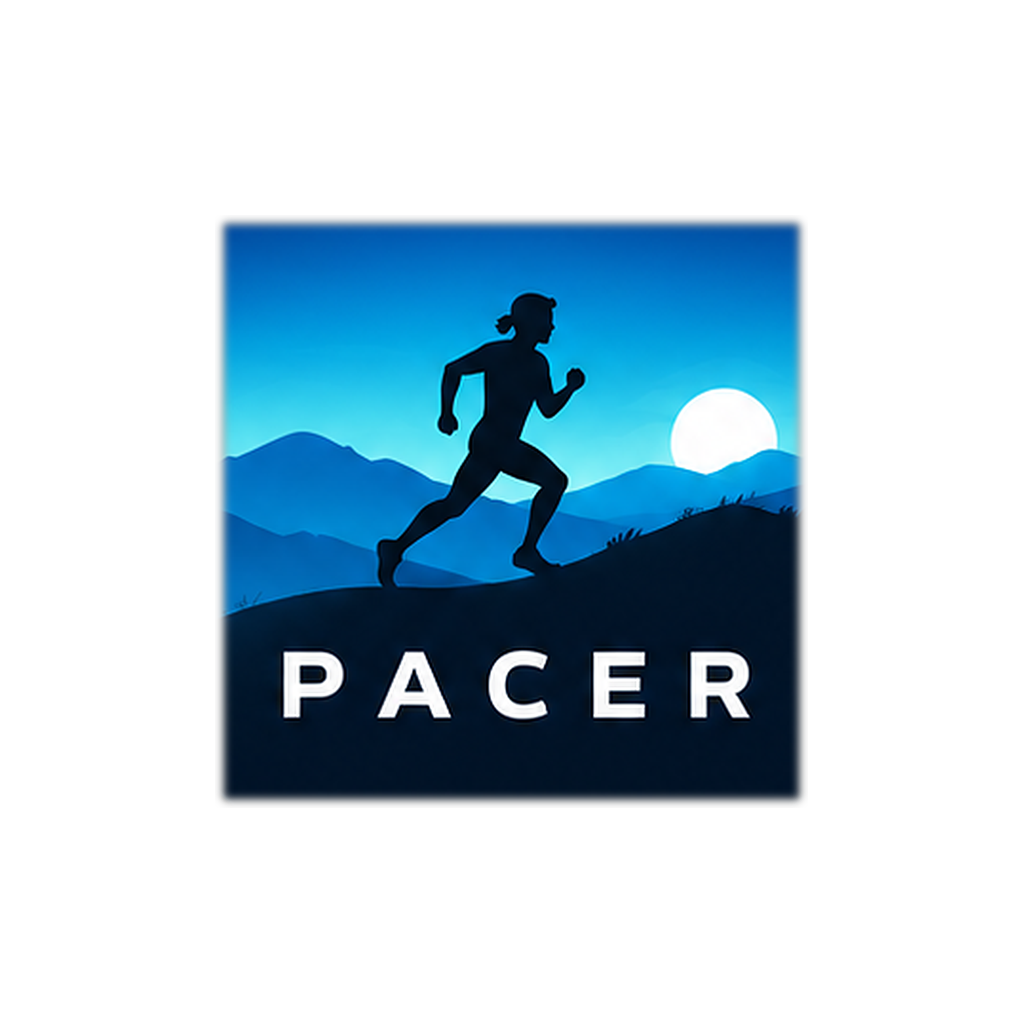
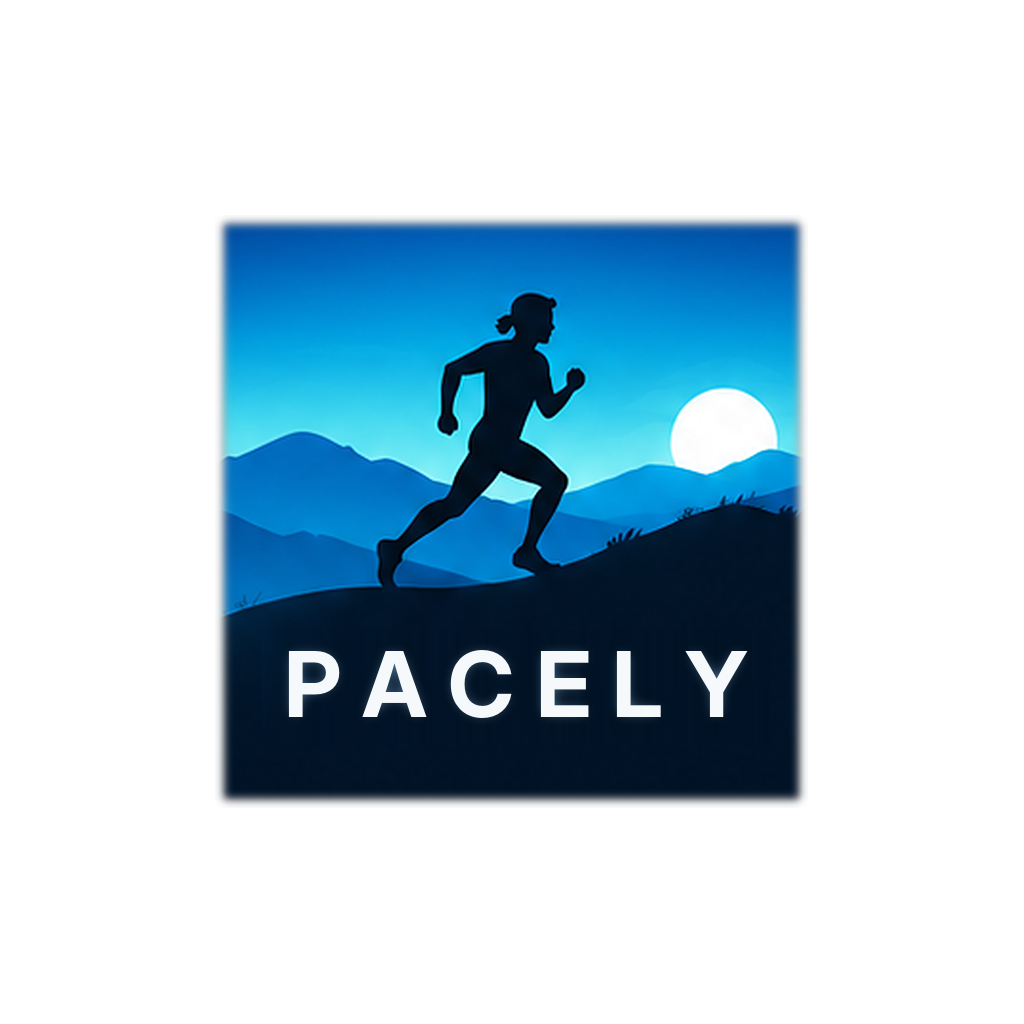
Rename the app to Pacely
All visible text, the share card, invite links and the icon/splash lettering now
say Pacely. Internal identifiers (bundle ID, EAS slug, storage keys, Firebase
project) are unchanged so existing data and builds keep working.

Claude-Session: https://claude.ai/code/session_01KvumYH4tL7PjN1ULqBQjTr

Changed region(s): [[0.25, 0.625, 0.75, 0.7188]]

diff --git a/src/planGuides.ts b/src/planGuides.ts
@@ -35,7 +35,7 @@ export const GUIDES: Record<string, PlanGuide> = {
     ],
     sessionTypes: [
       { name: 'Warm-up walk (5 min)', text: 'A brisk walk before every session warms up your muscles and gets your heart rate up gently.' },
-      { name: 'Run/walk', text: 'Run for a set time, then walk to recover. Pacer tells you when to switch. Run slowly enough that you could still talk.' },
+      { name: 'Run/walk', text: 'Run for a set time, then walk to recover. Pacely tells you when to switch. Run slowly enough that you could still talk.' },
       { name: 'Continuous run', text: 'One steady run with no walking. Pick a pace you could keep going at, even if it feels slow.' },
       { name: 'Cool-down walk (5 min)', text: 'Lets your heart rate come down slowly and helps your legs feel less stiff the next day.' },
     ],
@@ -91,9 +91,9 @@ export const GUIDES: Record<string, PlanGuide> = {
       { weeks: '6', title: 'Time trial', text: 'Fewer reps so you\'re fresh, then a 5 km time trial aiming for under 30 minutes (5:55 per km).' },
     ],
     sessionTypes: [
-      { name: '400 m reps', text: 'Run 400 m (one lap of a track) at 5:30 per km, a bit faster than your goal pace, then rest for 90 seconds. Pacer tells you if you\'re on pace. Running faster than goal pace makes goal pace feel easier.' },
+      { name: '400 m reps', text: 'Run 400 m (one lap of a track) at 5:30 per km, a bit faster than your goal pace, then rest for 90 seconds. Pacely tells you if you\'re on pace. Running faster than goal pace makes goal pace feel easier.' },
       { name: 'Easy run', text: 'A relaxed run to recover between the harder sessions. Don\'t worry about pace at all.' },
-      { name: 'Steady run', text: 'A longer run at 6:00 per km, your target race pace. Pacer warns you if you drift too slow, so you learn what the pace feels like.' },
+      { name: 'Steady run', text: 'A longer run at 6:00 per km, your target race pace. Pacely warns you if you drift too slow, so you learn what the pace feels like.' },
     ],
     weekNotes: [
       '5 reps of 400 m and a 4 km steady run. Find your rhythm at 6:00 per km.',
@@ -148,7 +148,7 @@ export const GUIDES: Record<string, PlanGuide> = {
       { weeks: '5–6', title: 'Running again', text: 'Longer runs with one short walk, then 25 minutes of easy running. Then you can go back to your normal training or another plan.' },
     ],
     sessionTypes: [
-      { name: 'Run/walk', text: 'Run gently for a set time, then walk for a minute. Pacer tells you when to switch. Every run should feel easy.' },
+      { name: 'Run/walk', text: 'Run gently for a set time, then walk for a minute. Pacely tells you when to switch. Every run should feel easy.' },
       { name: 'Warm-up and cool-down walks', text: '5 minutes of walking at each end. Don\'t skip them: they matter more when you\'re coming back.' },
     ],
     weekNotes: [
@@ -172,9 +172,9 @@ export const GUIDES: Record<string, PlanGuide> = {
       { weeks: '6', title: 'Time trial', text: 'Fewer reps to keep your legs fresh, then 5 km aiming for under 25 minutes.' },
     ],
     sessionTypes: [
-      { name: '400 m reps', text: 'Run 400 m at 4:40 per km, a bit faster than race pace, then rest 90 seconds. Pacer tells you if you\'re on pace.' },
+      { name: '400 m reps', text: 'Run 400 m at 4:40 per km, a bit faster than race pace, then rest 90 seconds. Pacely tells you if you\'re on pace.' },
       { name: 'Easy run', text: 'Relaxed running to recover. No pace to worry about.' },
-      { name: 'Steady run', text: 'A longer run at 5:00 per km, your goal pace. Pacer warns you if you drift too slow.' },
+      { name: 'Steady run', text: 'A longer run at 5:00 per km, your goal pace. Pacely warns you if you drift too slow.' },
     ],
     weekNotes: [
       '5 reps and a 4 km steady run. Find your rhythm at 5:00 per km.',
@@ -197,7 +197,7 @@ export const GUIDES: Record<string, PlanGuide> = {
       { weeks: '7–8', title: 'Taper and race', text: 'Less volume so you\'re fresh, then race 10 km.' },
     ],
     sessionTypes: [
-      { name: '800 m reps', text: 'Run 800 m hard (faster than 10K pace), jog 90 seconds, repeat. Pacer compares each rep with how you started it.' },
+      { name: '800 m reps', text: 'Run 800 m hard (faster than 10K pace), jog 90 seconds, repeat. Pacely compares each rep with how you started it.' },
       { name: 'Tempo run', text: 'Comfortably hard: you could say a few words, but not chat. It lifts the pace you can hold for 10 km.' },
       { name: 'Easy run', text: 'Relaxed recovery running.' },
       { name: 'Long run', text: 'Slow and steady, building endurance so the last 2 km of the race feel strong.' },

diff --git a/app/custom-plan.tsx b/app/custom-plan.tsx
@@ -20,7 +20,7 @@ function parseClock(text: string): number | null {
   return s > 0 ? s : null;
 }
 
-/** Pacer Plus: build a personal plan for a race from your fitness, goal and running days. */
+/** Pacely Plus: build a personal plan for a race from your fitness, goal and running days. */
 export default function CustomPlanScreen() {
   const t = useTheme();
   const router = useRouter();
@@ -50,7 +50,7 @@ export default function CustomPlanScreen() {
   if (!plus) {
     return (
       <Screen inset={false}>
-        <PlusLock title="Personal adaptive plans" text="Tell Pacer your race and goal. It builds a plan around your fitness and running days, then adjusts as you go." onPress={() => router.push('/plus')} />
+        <PlusLock title="Personal adaptive plans" text="Tell Pacely your race and goal. It builds a plan around your fitness and running days, then adjusts as you go." onPress={() => router.push('/plus')} />
       </Screen>
     );
   }
@@ -88,7 +88,7 @@ export default function CustomPlanScreen() {
   return (
     <Screen inset={false}>
       <Text style={{ color: t.muted, marginBottom: 12, lineHeight: 20 }}>
-        Tell Pacer about your race. Your plan is built around your fitness and the days you can run, and your paces adjust as you tell Pacer how sessions felt.
+        Tell Pacely about your race. Your plan is built around your fitness and the days you can run, and your paces adjust as you tell Pacely how sessions felt.
       </Text>
       <Card>
         <SectionLabel>Race distance</SectionLabel>
@@ -97,7 +97,7 @@ export default function CustomPlanScreen() {
         </View>
         <Field label="Race date (day/month/year)" placeholder="12/04/2027" value={date} onChangeText={(v) => { setDate(v); setBuilt(null); }} keyboardType="numbers-and-punctuation" />
         <Field label="Your 5K time now" hint={current ? 'Worked out from your recent runs. Change it if you know better.' : 'Leave empty if you\'re not sure.'} placeholder="28:30" value={current} onChangeText={(v) => { setCurrent(v); setBuilt(null); }} keyboardType="numbers-and-punctuation" />
-        <Field label="Goal time (optional)" hint="Leave empty and Pacer picks a realistic target." placeholder={km > 21.2 ? '4:00:00' : km > 10 ? '1:55:00' : km > 5 ? '55:00' : '25:00'} value={goal} onChangeText={(v) => { setGoal(v); setBuilt(null); }} keyboardType="numbers-and-punctuation" />
+        <Field label="Goal time (optional)" hint="Leave empty and Pacely picks a realistic target." placeholder={km > 21.2 ? '4:00:00' : km > 10 ? '1:55:00' : km > 5 ? '55:00' : '25:00'} value={goal} onChangeText={(v) => { setGoal(v); setBuilt(null); }} keyboardType="numbers-and-punctuation" />
         <SectionLabel>Runs a week</SectionLabel>
         <View style={{ flexDirection: 'row', gap: 8, marginBottom: 12 }}>
           {[3, 4].map((n) => <Chip key={n} small label={`${n} runs`} active={perWeek === n} onPress={() => { setPerWeek(n); setBuilt(null); }} />)}

diff --git a/app/plus.tsx b/app/plus.tsx
@@ -9,7 +9,7 @@ import { loadSettings, saveSettings } from '../src/storage';
 import { PLUS_BENEFITS, PLUS_PRICE, setPlusFlag } from '../src/plus';
 import { Settings } from '../src/types';
 
-/** What Pacer Plus adds, and (until payments are set up) a switch to try it. */
+/** What Pacely Plus adds, and (until payments are set up) a switch to try it. */
 export default function PlusScreen() {
   const t = useTheme();
   const [s, setS] = useState<Settings | null>(null);
@@ -33,10 +33,10 @@ export default function PlusScreen() {
       <Card style={{ backgroundColor: t.accent, borderWidth: 0 }}>
         <View style={{ flexDirection: 'row', alignItems: 'center', gap: 8 }}>
           <Ionicons name="star" size={22} color={t.onAccent} />
-          <Text style={{ color: t.onAccent, fontSize: 24, fontWeight: '900' }}>Pacer Plus</Text>
+          <Text style={{ color: t.onAccent, fontSize: 24, fontWeight: '900' }}>Pacely Plus</Text>
         </View>
         <Text style={{ color: t.onAccent, marginTop: 6, lineHeight: 21, fontSize: 15 }}>
-          Everything in Pacer stays free. Plus adds extra coaching, stats and plans for runners who want more.
+          Everything in Pacely stays free. Plus adds extra coaching, stats and plans for runners who want more.
         </Text>
         <Text style={{ color: t.onAccent, marginTop: 10, fontWeight: '800' }}>
           {PLUS_PRICE.month} a month or {PLUS_PRICE.year} a year · {PLUS_PRICE.trialDays}-day free trial
@@ -61,7 +61,7 @@ export default function PlusScreen() {
         <Text style={{ color: t.muted, lineHeight: 20, marginBottom: 6 }}>
           Payments aren't set up yet (that comes with the Play Store). Until then you can switch Plus on to try everything.
         </Text>
-        <ToggleRow label="Pacer Plus on" value={s.plus} onChange={toggle} />
+        <ToggleRow label="Pacely Plus on" value={s.plus} onChange={toggle} />
       </Card>
     </Screen>
   );

diff --git a/app/friends.tsx b/app/friends.tsx
@@ -80,7 +80,7 @@ function FriendsTab({ list, ids, reload }: { list: Profile[]; ids: string[]; rel
   const [found, setFound] = useState<Profile | null | 'none'>(null);
   const [busy, setBusy] = useState(false);
   const [showQr, setShowQr] = useState(false);
-  const link = `pacer://add/${username ?? ''}`;
+  const link = `pacely://add/${username ?? ''}`;
 
   async function find() {
     if (!search.trim()) return;
@@ -107,9 +107,9 @@ function FriendsTab({ list, ids, reload }: { list: Profile[]; ids: string[]; rel
 
       <Card>
         <Text style={{ color: t.text, fontWeight: '800', fontSize: 16 }}>Invite friends</Text>
-        <Text style={{ color: t.muted, marginTop: 2, marginBottom: 10 }}>Your username is <Text style={{ color: t.text, fontWeight: '800' }}>{username}</Text>. Share it, or let a friend scan your code in Pacer.</Text>
+        <Text style={{ color: t.muted, marginTop: 2, marginBottom: 10 }}>Your username is <Text style={{ color: t.text, fontWeight: '800' }}>{username}</Text>. Share it, or let a friend scan your code in Pacely.</Text>
         <View style={{ flexDirection: 'row', gap: 8 }}>
-          <Button small label="Share invite" onPress={() => Share.share({ message: `Run with me on Pacer! My username is ${username}. Open this on your phone: ${link}` })} />
+          <Button small label="Share invite" onPress={() => Share.share({ message: `Run with me on Pacely! My username is ${username}. Open this on your phone: ${link}` })} />
           <Button small variant="secondary" label={showQr ? 'Hide code' : 'Show my code'} onPress={() => setShowQr(!showQr)} />
         </View>
         {showQr ? <View style={{ alignItems: 'center', marginTop: 14, padding: 12, backgroundColor: '#fff', borderRadius: 12, alignSelf: 'center' }}><QRCode value={link} size={180} /></View> : null}

diff --git a/app/(tabs)/settings.tsx b/app/(tabs)/settings.tsx
@@ -46,7 +46,7 @@ export default function SettingsScreen() {
 
   async function toggleReminders(on: boolean) {
     if (on && !(await allowReminders())) {
-      Alert.alert('Notifications are off', 'To get reminders, allow notifications for Pacer in your phone\'s settings.', [
+      Alert.alert('Notifications are off', 'To get reminders, allow notifications for Pacely in your phone\'s settings.', [
         { text: 'Not now', style: 'cancel' }, { text: 'Open settings', onPress: () => Linking.openSettings() },
       ]);
       return;
@@ -93,7 +93,7 @@ export default function SettingsScreen() {
         <Card style={{ backgroundColor: t.accent, borderWidth: 0, flexDirection: 'row', alignItems: 'center', gap: 12 }}>
           <Ionicons name="star" size={24} color={t.onAccent} />
           <View style={{ flex: 1 }}>
-            <Text style={{ color: t.onAccent, fontWeight: '900', fontSize: 17 }}>Pacer Plus{s.plus ? ' is on' : ''}</Text>
+            <Text style={{ color: t.onAccent, fontWeight: '900', fontSize: 17 }}>Pacely Plus{s.plus ? ' is on' : ''}</Text>
             <Text style={{ color: t.onAccent, marginTop: 1 }}>Adaptive plans, ghost runner, advanced stats and more</Text>
           </View>
           <Ionicons name="chevron-forward" size={18} color={t.onAccent} />
@@ -239,7 +239,7 @@ export default function SettingsScreen() {
 
       <SectionLabel>About</SectionLabel>
       <Card>
-        <Text style={{ color: t.text }}>Pacer {Constants.expoConfig?.version ?? ''}</Text>
+        <Text style={{ color: t.text }}>Pacely {Constants.expoConfig?.version ?? ''}</Text>
         <Text style={{ color: t.muted, marginTop: 2 }}>Your runs are saved on this phone.</Text>
       </Card>
     </Screen>

diff --git a/src/plus.ts b/src/plus.ts
@@ -1,15 +1,15 @@
 import { useEffect, useState } from 'react';
 
 /**
- * Pacer Plus: the paid extras. Everything that was free stays free; Plus adds depth on top.
+ * Pacely Plus: the paid extras. Everything that was free stays free; Plus adds depth on top.
  * Until payments are set up (Google Play Billing, needs the app on the Play Store), Plus is
- * switched on from the Pacer Plus screen for testing. The flag lives in Settings and is mirrored
+ * switched on from the Pacely Plus screen for testing. The flag lives in Settings and is mirrored
  * here so any screen can check it synchronously.
  */
 export const PLUS_PRICE = { month: '£3.99', year: '£29.99', trialDays: 7 };
 
 export const PLUS_BENEFITS: { icon: string; title: string; text: string }[] = [
-  { icon: 'sparkles', title: 'Personal adaptive plans', text: 'Tell Pacer your goal and race date. It builds a plan around your fitness and free days, then adjusts your paces as you go.' },
+  { icon: 'sparkles', title: 'Personal adaptive plans', text: 'Tell Pacely your goal and race date. It builds a plan around your fitness and free days, then adjusts your paces as you go.' },
   { icon: 'people', title: 'Ghost runner', text: 'Race your best run live. The coach tells you how far ahead or behind your ghost you are.' },
   { icon: 'analytics', title: 'Advanced stats', text: 'Heart-rate zones, training load, a fitness score (VO2 max estimate) and your year in review.' },
   { icon: 'library', title: 'More training plans', text: 'Marathon, sub-25 and sub-20 5K, 10K personal best, and an easy return after injury.' },

diff --git a/app/share/[id].tsx b/app/share/[id].tsx
@@ -47,11 +47,11 @@ export default function ShareRun() {
       if (!(await Sharing.isAvailableAsync())) { setError("Sharing isn't available on this phone."); return; }
       await Sharing.shareAsync(uri, { mimeType: 'image/png', dialogTitle: 'Share your run' });
     } catch {
-      setError("Couldn't make the picture. This needs the latest version of the Pacer app.");
+      setError("Couldn't make the picture. This needs the latest version of the Pacely app.");
     }
   }
 
-  // Card designs: Classic is free; Light and Bold are Pacer Plus extras.
+  // Card designs: Classic is free; Light and Bold are Pacely Plus extras.
   const D = design === 'light'
     ? { top: '#FFFFFF', bottom: mix(t.accent, '#FFFFFF', 0.85), fg: mix(t.accent, '#000000', 0.6), sub: 'rgba(0,0,0,0.55)', chip: 'rgba(0,0,0,0.07)', route: mix(t.accent, '#000000', 0.2), big: mix(t.accent, '#000000', 0.35) }
     : design === 'bold'
@@ -79,7 +79,7 @@ export default function ShareRun() {
         </Svg>
         <View style={{ flex: 1, padding: 22 }}>
           <View style={{ flexDirection: 'row', alignItems: 'center' }}>
-            <Text style={{ flex: 1, color: D.fg, fontWeight: '900', fontSize: 20, letterSpacing: 3 }}>PACER</Text>
+            <Text style={{ flex: 1, color: D.fg, fontWeight: '900', fontSize: 20, letterSpacing: 3 }}>PACELY</Text>
             {username ? <Text style={{ color: D.sub, fontWeight: '700' }}>@{username}</Text> : null}
           </View>
           <Text style={{ color: D.sub, marginTop: 4 }}>{run.title} · {fmtDate(run.startedAt)}</Text>

diff --git a/src/gpx.ts b/src/gpx.ts
@@ -2,7 +2,7 @@ import { Share } from 'react-native';
 import { RunRecord } from './types';
 
 /**
- * GPX export (Pacer Plus): the route as a standard GPX track that Strava, Garmin Connect and most
+ * GPX export (Pacely Plus): the route as a standard GPX track that Strava, Garmin Connect and most
  * running apps can import. Runs recorded since GPX export was added have a time on each point;
  * older ones get times spread evenly across the run.
  */
@@ -16,7 +16,7 @@ export function toGpx(r: RunRecord): string {
     return `      <trkpt lat="${p.lat.toFixed(6)}" lon="${p.lon.toFixed(6)}"><time>${time}</time></trkpt>`;
   });
   return `<?xml version="1.0" encoding="UTF-8"?>
-<gpx version="1.1" creator="Pacer" xmlns="http://www.topografix.com/GPX/1/1">
+<gpx version="1.1" creator="Pacely" xmlns="http://www.topografix.com/GPX/1/1">
   <metadata><name>${esc(r.title)}</name><time>${new Date(start).toISOString()}</time></metadata>
   <trk>
     <name>${esc(r.title)}</name>
@@ -32,7 +32,7 @@ ${pts.join('\n')}
 /** Saves the GPX to a file and opens the share sheet (falls back to sharing the text). */
 export async function shareGpx(r: RunRecord): Promise<void> {
   const text = toGpx(r);
-  const name = `pacer-${r.startedAt.slice(0, 10)}-${r.id.slice(-4)}.gpx`;
+  const name = `pacely-${r.startedAt.slice(0, 10)}-${r.id.slice(-4)}.gpx`;
   try {
     const FS = require('expo-file-system') as typeof import('expo-file-system');
     const Sharing = require('expo-sharing') as typeof import('expo-sharing');

diff --git a/app/add/[username].tsx b/app/add/[username].tsx
@@ -6,7 +6,7 @@ import { useTheme } from '../../src/theme';
 import { RankBadge } from '../../src/badge';
 import { findRunner, follow, Profile } from '../../src/friends';
 
-/** Opened from an invite link (pacer://add/<username>) or QR code. */
+/** Opened from an invite link (pacely://add/<username>) or QR code. */
 export default function AddFriend() {
   const t = useTheme();
   const router = useRouter();
@@ -23,13 +23,13 @@ export default function AddFriend() {
           <>
             <RankBadge id={p.tier === 'hidden' ? 'unranked' : p.tier} size={64} />
             <Text style={{ color: t.text, fontSize: 24, fontWeight: '900', marginTop: 10 }}>{p.name}</Text>
-            <Text style={{ color: t.muted, marginTop: 4, marginBottom: 16 }}>wants you to run with them on Pacer</Text>
+            <Text style={{ color: t.muted, marginTop: 4, marginBottom: 16 }}>wants you to run with them on Pacely</Text>
             {done ? <Text style={{ color: t.walk, fontWeight: '700' }}>You're now following {p.name}.</Text>
               : <Button label={`Follow ${p.name}`} onPress={() => follow(p.uid).then(() => setDone(true))} />}
           </>
         ) : <Text style={{ color: t.muted }}>Couldn't find a runner called {username}.</Text>}
       </Card>
-      <Button variant="secondary" label="Go to Pacer" onPress={() => router.replace('/')} />
+      <Button variant="secondary" label="Go to Pacely" onPress={() => router.replace('/')} />
     </Screen>
   );
 }

diff --git a/src/tracking.ts b/src/tracking.ts
@@ -19,7 +19,7 @@ export async function startTracking(onLocations: Handler): Promise<{ ok: boolean
   handler = onLocations;
   const fg = await Location.requestForegroundPermissionsAsync();
   if (fg.status !== 'granted') {
-    return { ok: false, message: 'Pacer needs location access to measure your run. Turn it on in your phone settings.' };
+    return { ok: false, message: 'Pacely needs location access to measure your run. Turn it on in your phone settings.' };
   }
 
   let bg = false;
@@ -35,7 +35,7 @@ export async function startTracking(onLocations: Handler): Promise<{ ok: boolean
         pausesUpdatesAutomatically: false,
         showsBackgroundLocationIndicator: true,
         foregroundService: {
-          notificationTitle: 'Pacer is tracking your run',
+          notificationTitle: 'Pacely is tracking your run',
           notificationBody: 'Tap to go back to your run.',
           notificationColor: '#1B3BCF',
         },
@@ -51,7 +51,7 @@ export async function startTracking(onLocations: Handler): Promise<{ ok: boolean
     { accuracy: Location.Accuracy.BestForNavigation, timeInterval: 1000, distanceInterval: 0 },
     (loc) => handler?.([loc]),
   );
-  return { ok: true, message: 'Background tracking is off, so keep Pacer open during your run.' };
+  return { ok: true, message: 'Background tracking is off, so keep Pacely open during your run.' };
 }
 
 export async function stopTracking() {

diff --git a/src/advStats.ts b/src/advStats.ts
@@ -3,7 +3,7 @@ import { fitnessOf } from './stats';
 import { runBests } from './records';
 import { weekStart } from './progress';
 
-/** Advanced stats (Pacer Plus). Callers pass real runs (no practice runs). */
+/** Advanced stats (Pacely Plus). Callers pass real runs (no practice runs). */
 
 const DAY = 864e5;
 
@@ -69,7 +69,7 @@ export function trainingLoad(runs: RunRecord[], now = Date.now()): LoadSummary {
     return { label: `${d.getDate()}/${d.getMonth() + 1}`, value: Math.round(loadIn(from, from + 7 * DAY)) };
   });
   const verdict: LoadSummary['verdict'] =
-    chronic === 0 && acute === 0 ? { title: 'No recent runs', text: 'Run a few times and Pacer will show how your training is balanced.', tone: 'low' }
+    chronic === 0 && acute === 0 ? { title: 'No recent runs', text: 'Run a few times and Pacely will show how your training is balanced.', tone: 'low' }
     : ratio < 0.8 ? { title: 'Taking it easy', text: 'You\'ve done less than usual this week. Fine for a rest week; keep it up for long and fitness slowly drops.', tone: 'low' }
     : ratio <= 1.3 ? { title: 'Good balance', text: 'This week matches what your body is used to. The sweet spot for getting fitter safely.', tone: 'good' }
     : ratio <= 1.5 ? { title: 'Building fast', text: 'More than usual this week. Fine for a week or two, but make sure you get rest days.', tone: 'high' }

diff --git a/src/ui.tsx b/src/ui.tsx
@@ -191,7 +191,7 @@ export function AuthHeader({ title, sub }: { title: string; sub: string }) {
   );
 }
 
-/** Shown in place of a Pacer Plus feature when Plus is off. */
+/** Shown in place of a Pacely Plus feature when Plus is off. */
 export function PlusLock({ title, text, onPress }: { title: string; text: string; onPress: () => void }) {
   const t = useTheme();
   return (
@@ -199,11 +199,11 @@ export function PlusLock({ title, text, onPress }: { title: string; text: string
       <Card style={{ borderColor: t.accent, borderWidth: 1.5, borderStyle: 'dashed' }}>
         <View style={{ flexDirection: 'row', alignItems: 'center', gap: 8 }}>
           <Ionicons name="star" size={16} color={t.accent} />
-          <Text style={{ color: t.accent, fontWeight: '800', fontSize: 13 }}>PACER PLUS</Text>
+          <Text style={{ color: t.accent, fontWeight: '800', fontSize: 13 }}>PACELY PLUS</Text>
         </View>
         <Text style={{ color: t.text, fontWeight: '800', fontSize: 17, marginTop: 4 }}>{title}</Text>
         <Text style={{ color: t.muted, marginTop: 2, lineHeight: 20 }}>{text}</Text>
-        <Text style={{ color: t.accent, fontWeight: '700', marginTop: 8 }}>See Pacer Plus →</Text>
+        <Text style={{ color: t.accent, fontWeight: '700', marginTop: 8 }}>See Pacely Plus →</Text>
       </Card>
     </Pressable>
   );
